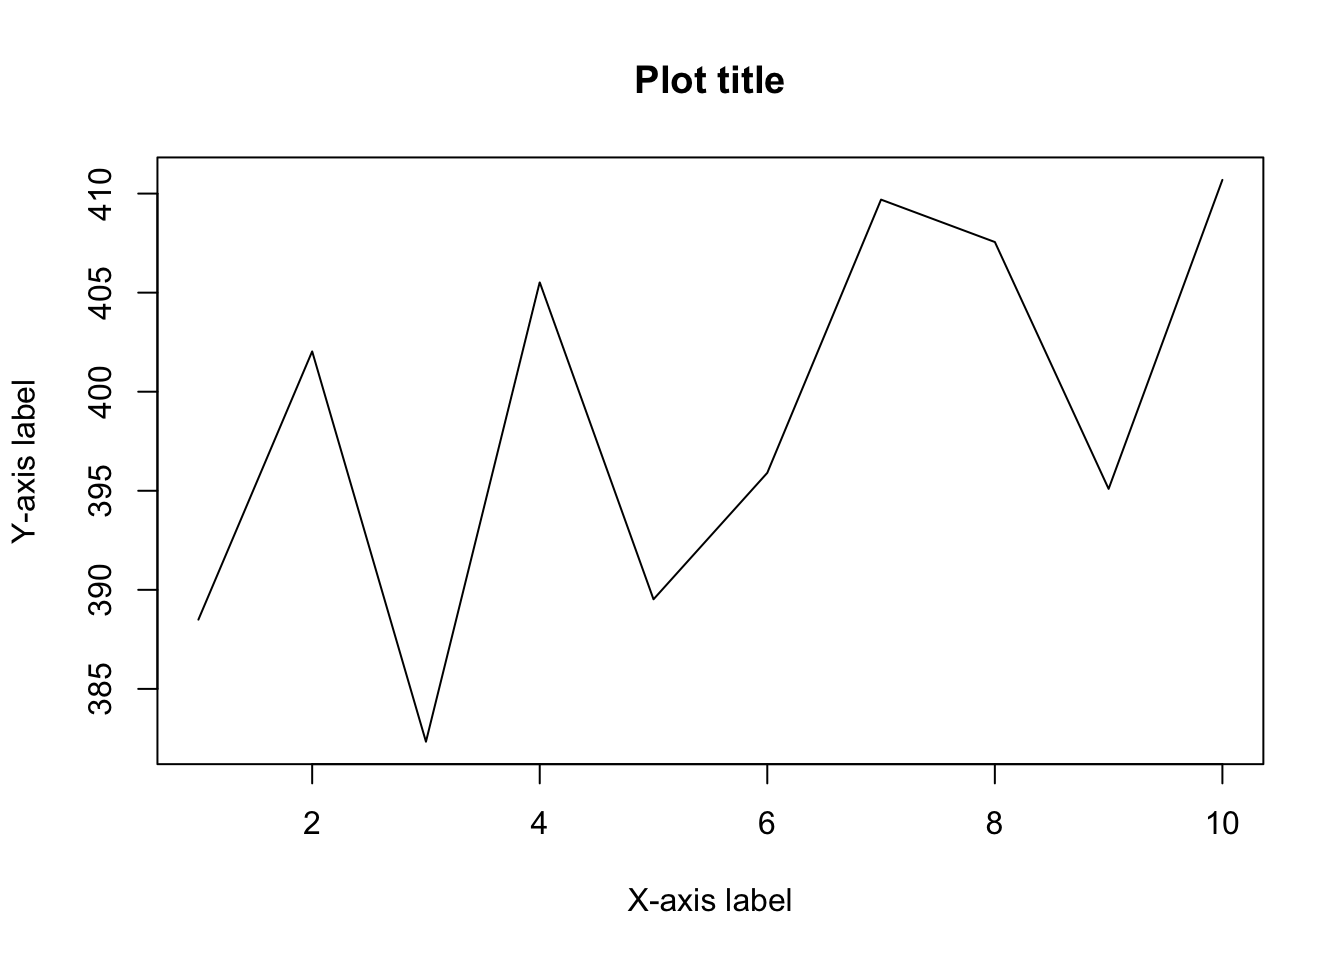
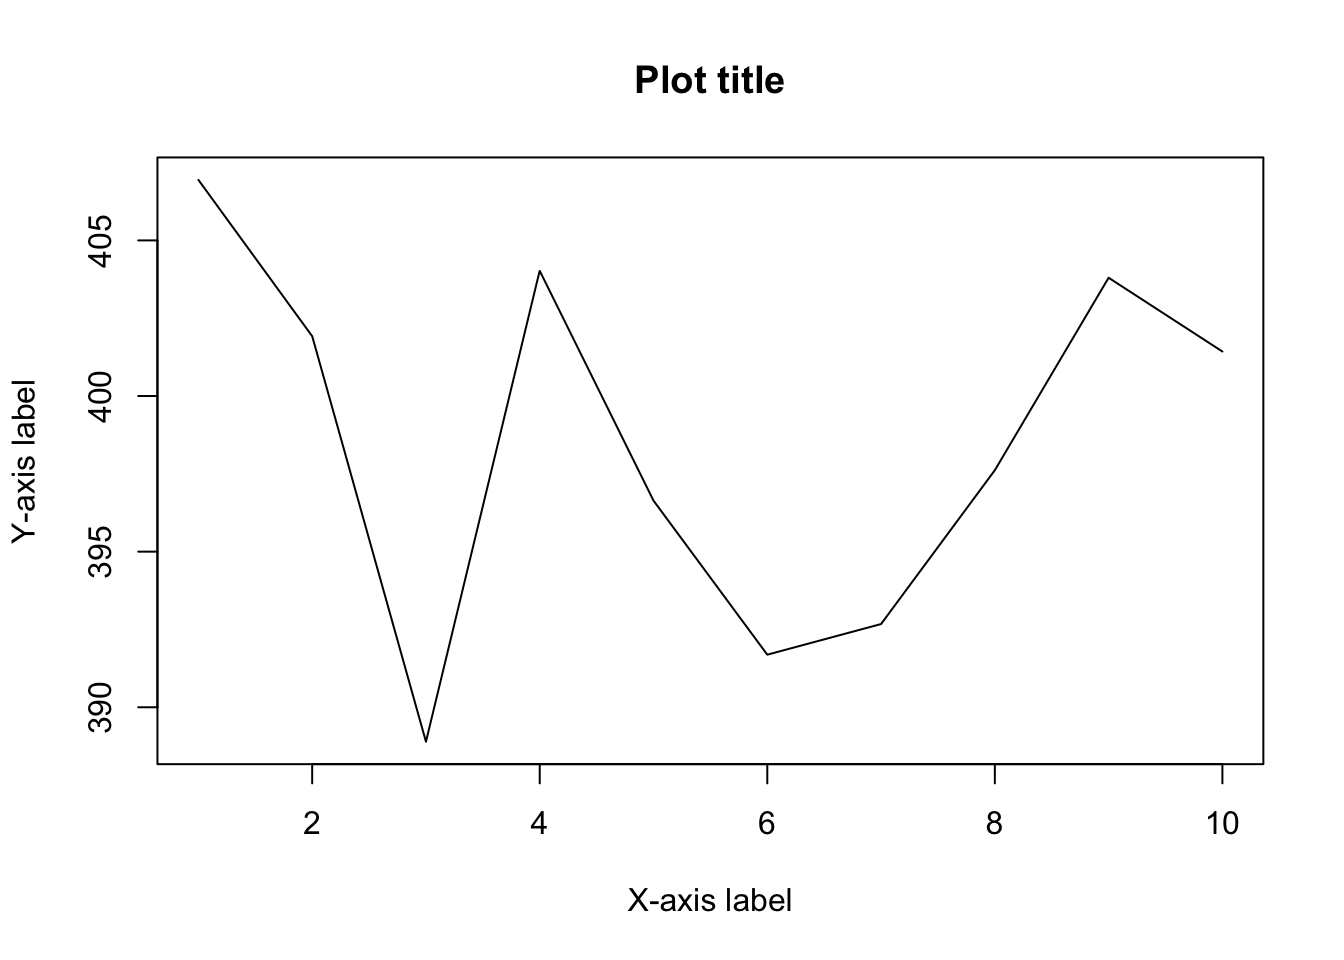
edit post

diff --git a/content/blog/how-to-install-r-and-rstudio.html b/content/blog/how-to-install-r-and-rstudio.html
@@ -186,10 +186,10 @@ my_mat2</code></pre>
 <pre class="r"><code>my_vec &lt;- rnorm(10, mean = 400, sd = 10)
 # Display only the first 5 values:
 head(my_vec, 5)</code></pre>
-<pre><code>## [1] 388.4961 402.0329 382.3351 405.5146 389.5219</code></pre>
+<pre><code>## [1] 406.9437 401.9219 388.8940 404.0199 396.6389</code></pre>
 <pre class="r"><code># Display only the last 5 values:
 tail(my_vec, 5)</code></pre>
-<pre><code>## [1] 395.9044 409.6958 407.5554 395.0951 410.6902</code></pre>
+<pre><code>## [1] 391.6893 392.6744 397.6162 403.8006 401.4303</code></pre>
 <p>You will have different values than mines due to the fact that they are randomly generated. If you want to make sure to have always the same random values, use <code>set.seed()</code> (with any numeric inside the brackets). For instance, with the following code, you should have the exact same values, no matter where and when you run it:</p>
 <pre class="r"><code>set.seed(42)
 rnorm(3, mean = 10, sd = 2)</code></pre>
@@ -216,6 +216,15 @@ rnorm(3, mean = 10, sd = 2)</code></pre>
 </iframe>
 <p><strong>Related articles3:</strong></p>
 <iframe width="100%" frameborder="0" src="https://rssdog.com/index.php?url=https%3A%2F%2Fwww.statsandr.com%2Ftags%2Fr%2Findex.xml&amp;mode=html&amp;showonly=&amp;maxitems=5&amp;showdescs=0&amp;desctrim=1000&amp;descmax=0&amp;tabwidth=100%25&amp;linktarget=_self&amp;textsize=inherit&amp;bordercol=transparent&amp;headbgcol=transparent&amp;headtxtcol=transparent&amp;titlebgcol=transparent&amp;titletxtcol=%23000000&amp;itembgcol=transparent&amp;itemtxtcol=transparent&amp;ctl=0">
+</iframe>
+<p><strong>Related articles4:</strong></p>
+<iframe width="100%" height="750" frameborder="0" class="rssdog" src="https://rssdog.com/index.php?url=https%3A%2F%2Fwww.statsandr.com%2Ftags%2Fr%2Findex.xml&amp;mode=html&amp;showonly=&amp;maxitems=5&amp;showdescs=0&amp;desctrim=1000&amp;descmax=0&amp;tabwidth=100%25&amp;linktarget=_blank&amp;textsize=inherit&amp;bordercol=transparent&amp;headbgcol=transparent&amp;headtxtcol=transparent&amp;titlebgcol=transparent&amp;titletxtcol=%23000000&amp;itembgcol=transparent&amp;itemtxtcol=transparent&amp;ctl=0">
+</iframe>
+<p><strong>Related articles5:</strong></p>
+<iframe width="100%" height="750" frameborder="0" class="rssdog" src="https://rssdog.com/index.php?url=https%3A%2F%2Fwww.statsandr.com%2Ftags%2Fr%2Findex.xml&amp;mode=html&amp;showonly=&amp;maxitems=5&amp;showdescs=0&amp;desctrim=1000&amp;descmax=0&amp;tabwidth=100%25&amp;linktarget=_top&amp;textsize=inherit&amp;bordercol=transparent&amp;headbgcol=transparent&amp;headtxtcol=transparent&amp;titlebgcol=transparent&amp;titletxtcol=%23000000&amp;itembgcol=transparent&amp;itemtxtcol=transparent&amp;ctl=0">
+</iframe>
+<p><strong>Related articles6:</strong></p>
+<iframe width="100%" height="750" frameborder="0" class="rssdog" src="https://rssdog.com/index.php?url=https%3A%2F%2Fwww.statsandr.com%2Ftags%2Fr%2Findex.xml&amp;mode=html&amp;showonly=&amp;maxitems=5&amp;showdescs=0&amp;desctrim=1000&amp;descmax=0&amp;tabwidth=100%25&amp;linktarget=_parent&amp;textsize=inherit&amp;bordercol=transparent&amp;headbgcol=transparent&amp;headtxtcol=transparent&amp;titlebgcol=transparent&amp;titletxtcol=%23000000&amp;itembgcol=transparent&amp;itemtxtcol=transparent&amp;ctl=0">
 </iframe>
 </div>
 </div>

diff --git a/public/blog/how-to-install-r-and-rstudio/index.html b/public/blog/how-to-install-r-and-rstudio/index.html
@@ -323,10 +323,10 @@ my_mat2</code></pre>
 <pre class="r"><code>my_vec &lt;- rnorm(10, mean = 400, sd = 10)
 # Display only the first 5 values:
 head(my_vec, 5)</code></pre>
-<pre><code>## [1] 388.4961 402.0329 382.3351 405.5146 389.5219</code></pre>
+<pre><code>## [1] 406.9437 401.9219 388.8940 404.0199 396.6389</code></pre>
 <pre class="r"><code># Display only the last 5 values:
 tail(my_vec, 5)</code></pre>
-<pre><code>## [1] 395.9044 409.6958 407.5554 395.0951 410.6902</code></pre>
+<pre><code>## [1] 391.6893 392.6744 397.6162 403.8006 401.4303</code></pre>
 <p>You will have different values than mines due to the fact that they are randomly generated. If you want to make sure to have always the same random values, use <code>set.seed()</code> (with any numeric inside the brackets). For instance, with the following code, you should have the exact same values, no matter where and when you run it:</p>
 <pre class="r"><code>set.seed(42)
 rnorm(3, mean = 10, sd = 2)</code></pre>
@@ -353,6 +353,15 @@ rnorm(3, mean = 10, sd = 2)</code></pre>
 </iframe>
 <p><strong>Related articles3:</strong></p>
 <iframe width="100%" frameborder="0" src="https://rssdog.com/index.php?url=https%3A%2F%2Fwww.statsandr.com%2Ftags%2Fr%2Findex.xml&amp;mode=html&amp;showonly=&amp;maxitems=5&amp;showdescs=0&amp;desctrim=1000&amp;descmax=0&amp;tabwidth=100%25&amp;linktarget=_self&amp;textsize=inherit&amp;bordercol=transparent&amp;headbgcol=transparent&amp;headtxtcol=transparent&amp;titlebgcol=transparent&amp;titletxtcol=%23000000&amp;itembgcol=transparent&amp;itemtxtcol=transparent&amp;ctl=0">
+</iframe>
+<p><strong>Related articles4:</strong></p>
+<iframe width="100%" height="750" frameborder="0" class="rssdog" src="https://rssdog.com/index.php?url=https%3A%2F%2Fwww.statsandr.com%2Ftags%2Fr%2Findex.xml&amp;mode=html&amp;showonly=&amp;maxitems=5&amp;showdescs=0&amp;desctrim=1000&amp;descmax=0&amp;tabwidth=100%25&amp;linktarget=_blank&amp;textsize=inherit&amp;bordercol=transparent&amp;headbgcol=transparent&amp;headtxtcol=transparent&amp;titlebgcol=transparent&amp;titletxtcol=%23000000&amp;itembgcol=transparent&amp;itemtxtcol=transparent&amp;ctl=0">
+</iframe>
+<p><strong>Related articles5:</strong></p>
+<iframe width="100%" height="750" frameborder="0" class="rssdog" src="https://rssdog.com/index.php?url=https%3A%2F%2Fwww.statsandr.com%2Ftags%2Fr%2Findex.xml&amp;mode=html&amp;showonly=&amp;maxitems=5&amp;showdescs=0&amp;desctrim=1000&amp;descmax=0&amp;tabwidth=100%25&amp;linktarget=_top&amp;textsize=inherit&amp;bordercol=transparent&amp;headbgcol=transparent&amp;headtxtcol=transparent&amp;titlebgcol=transparent&amp;titletxtcol=%23000000&amp;itembgcol=transparent&amp;itemtxtcol=transparent&amp;ctl=0">
+</iframe>
+<p><strong>Related articles6:</strong></p>
+<iframe width="100%" height="750" frameborder="0" class="rssdog" src="https://rssdog.com/index.php?url=https%3A%2F%2Fwww.statsandr.com%2Ftags%2Fr%2Findex.xml&amp;mode=html&amp;showonly=&amp;maxitems=5&amp;showdescs=0&amp;desctrim=1000&amp;descmax=0&amp;tabwidth=100%25&amp;linktarget=_parent&amp;textsize=inherit&amp;bordercol=transparent&amp;headbgcol=transparent&amp;headtxtcol=transparent&amp;titlebgcol=transparent&amp;titletxtcol=%23000000&amp;itembgcol=transparent&amp;itemtxtcol=transparent&amp;ctl=0">
 </iframe>
 </div>
 </div>
